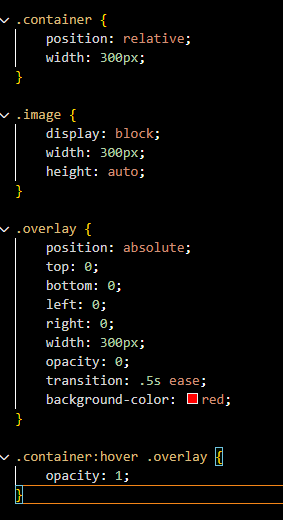
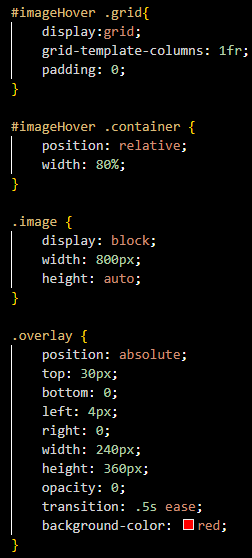
patch styling for Blog and add Zoom pics and Rotate

diff --git a/css/style.css b/css/style.css
@@ -145,11 +145,11 @@ header{
 }
 
 #imageHover img{
-    display: block;
+    
     width: 300px;
     height: auto;
-    justify-self: center;
-    align-self: center;
+    /*justify-self: center;
+    align-self: center;*/
 }
 
 #imageHover div{
@@ -194,30 +194,30 @@ header{
 }
 
 #imageHover .grid{
-    display: grid;
+    display:grid;
     grid-template-columns: 1fr;
+    padding: 0;
 }
 
-.container {
+#imageHover .container {
     position: relative;
-    width: 100%;
+    width: 80%;
 }
   
 .image {
     display: block;
     width: 800px;
     height: auto;
-
 }
 
 .overlay {
     position: absolute;
-    top: 15px;
+    top: 30px;
     bottom: 0;
-    left: 0;
+    left: 4px;
     right: 0;
-    width: 280px;
-    height: 390px;
+    width: 240px;
+    height: 360px;
     opacity: 0;
     transition: .5s ease;
     background-color: red;
@@ -227,14 +227,18 @@ header{
     opacity: 1;
 }
 
-.zoom1{
-    display: block;
+#imageHover .zoom1, #imageHover .zoom2{
+    display: flex;
+    padding: 0;
+    width:100%;
+    justify-content: center;
 }
 
-.zoom1 figure{
+.zoom1 figure, .zoom2 figure{
     width: 300px;
     height: 400px;
     overflow: hidden;
+    text-align: center;
 }
 
 .zoom1 figure img{
@@ -246,6 +250,44 @@ header{
 .zoom1 figure:hover img{
     -webkit-transform: scale(1.3);
 	transform: scale(1.3);
+}
+
+.zoom2 figure img{
+    -webkit-transform: scale(1.3);
+	transform: scale(1.3);
+    -webkit-transition: .3s ease-in-out;
+	transition: .3s ease-in-out;
+}
+
+.zoom2 figure:hover img{
+    -webkit-transform: scale(1);
+	transform: scale(1);
+}
+
+#imageHover .spin{
+    display: flex;
+    padding: 0;
+    width:100%;
+    justify-content: center;
+}
+
+.spin figure{
+    width: 300px;
+    height: 400px;
+    overflow: hidden;
+    text-align: center;
+}
+
+.spin figure img{
+    -webkit-transform: rotate(15deg) scale(1.3);
+    transform: rotate(15deg) scale(1.3);
+    -webkit-transition: .3s ease-in-out;
+	transition: .3s ease-in-out;
+}
+
+.spin figure:hover img{
+    -webkit-transform: rotate(0) scale(1);
+    transform: rotate(0) scale(1);
 }
 
 #contact h2{
@@ -323,10 +365,11 @@ legend{
     }
 
     #imageHover img{
-        display: block;
+        display: grid;
+        grid-template-columns: 1fr;
         width: 500px;
         height: auto;
-        justify-self: left;
+        justify-self: center;
         align-self: center;
     }
 
@@ -334,16 +377,16 @@ legend{
         position: absolute;
         top: 30px;
         bottom: 0;
-        left: 0;
-        right: 60px;
-        width: 70%;
+        left: 8px;
+        right: 40px;
+        width: 85%;
         height: 84%;
         opacity: 0;
         transition: .5s ease;
         background-color: red;
     }
 
-    .zoom1 figure{
+    .zoom1 figure, .zoom2 figure, .spin figure{
         width: 500px;
         height: 600px;
         overflow: hidden;
@@ -374,9 +417,9 @@ legend{
         position: absolute;
         top: 30px;
         bottom: 0;
-        left: 0;
+        left: 8px;
         right: 60px;
-        width: 70%;
+        width: 85%;
         height: 65%;
         opacity: 0;
         transition: .5s ease;

diff --git a/index.html b/index.html
@@ -118,17 +118,17 @@
             </div>
 
             <div class="grid">
-            <div class="container">
-                <img src="./img/Portrait.jpg" alt="Picture of me in a clone trooper helmet painted red." class="image">
-                <div class="overlay">
-                    <div class="text"></div>
+                <div class="container">
+                    <img src="./img/Portrait.jpg" alt="Picture of me in a clone trooper helmet painted red." class="image">
+                    <div class="overlay">
+                        <div class="text"></div>
+                    </div>
+                </div>
+
+                <div>
+                    <img src="./img/Overlay.png" alt="Snippet of the code used to make the hover effect.">
                 </div>
             </div>
-
-            <div>
-                <img src="./img/Overlay.png" alt="snippet of the code used to make the hover effect.">
-            </div>
-        </div>
                     
             <div>
                 <p>Although this isn’t really an IMAGE hover effect. CSS has ways of applying effects directly on the image itself through the figure element, this is done using CSS transitions! CSS has a plethora of ways to alter images to fit your needs. CSS can allow you to zoom, transform, apply filters, and apply special effects.</p>
@@ -144,17 +144,32 @@
                 </figure>
             </div>
 
+            <h2>Zoom Out</h2>
             <div class="zoom2">
                 <figure>
                     <img src="./img/Portrait.jpg" alt="Picture of me in a clone trooper helmet painted red.">
-                    <figcaption>Zoom Out</figcaption>
                 </figure>
+            </div>
+
+            <div>
+                <img src="./img/Zoom.png" alt="Code snippet of the zoom effects">
             </div>
 
             <div>
                     
                 <p>A similar method is used for the rotational effect as seen below. Here, we are using transform to set not only the scale, but also the degrees of rotation that the image is supposed to be at with and without hovering. Fun fact, you can also modify margins through normal transitions to get sliding effects!</p>
 
+            </div>
+
+            <h2>Rotate</h2>
+            <div class="spin">
+                <figure>
+                    <img src="./img/Portrait.jpg" alt="Picture of me in a clone trooper helmet painted red.">
+                </figure>
+            </div>
+
+            <div>
+                <img src="./img/Spin.png" alt="Code snippet of the rotate effects">
             </div>
 
             <div>

diff --git a/css/nav.css b/css/nav.css
@@ -135,6 +135,10 @@ main{
     .navbar .close{
         margin-top: 2.7rem;
     }
+
+    .navbar-links a{
+        font-size: 1.5em;
+    }
 }
 
 
@@ -147,6 +151,12 @@ main{
         display:flex;
         flex-direction:row;
     }
+
+    #nav__checkbox:checked ~ .navbar-links ul {
+        display:flex;
+        flex-direction:row;
+    }
+
     .navbar-links{
         display:flex;
         align-content:center;
